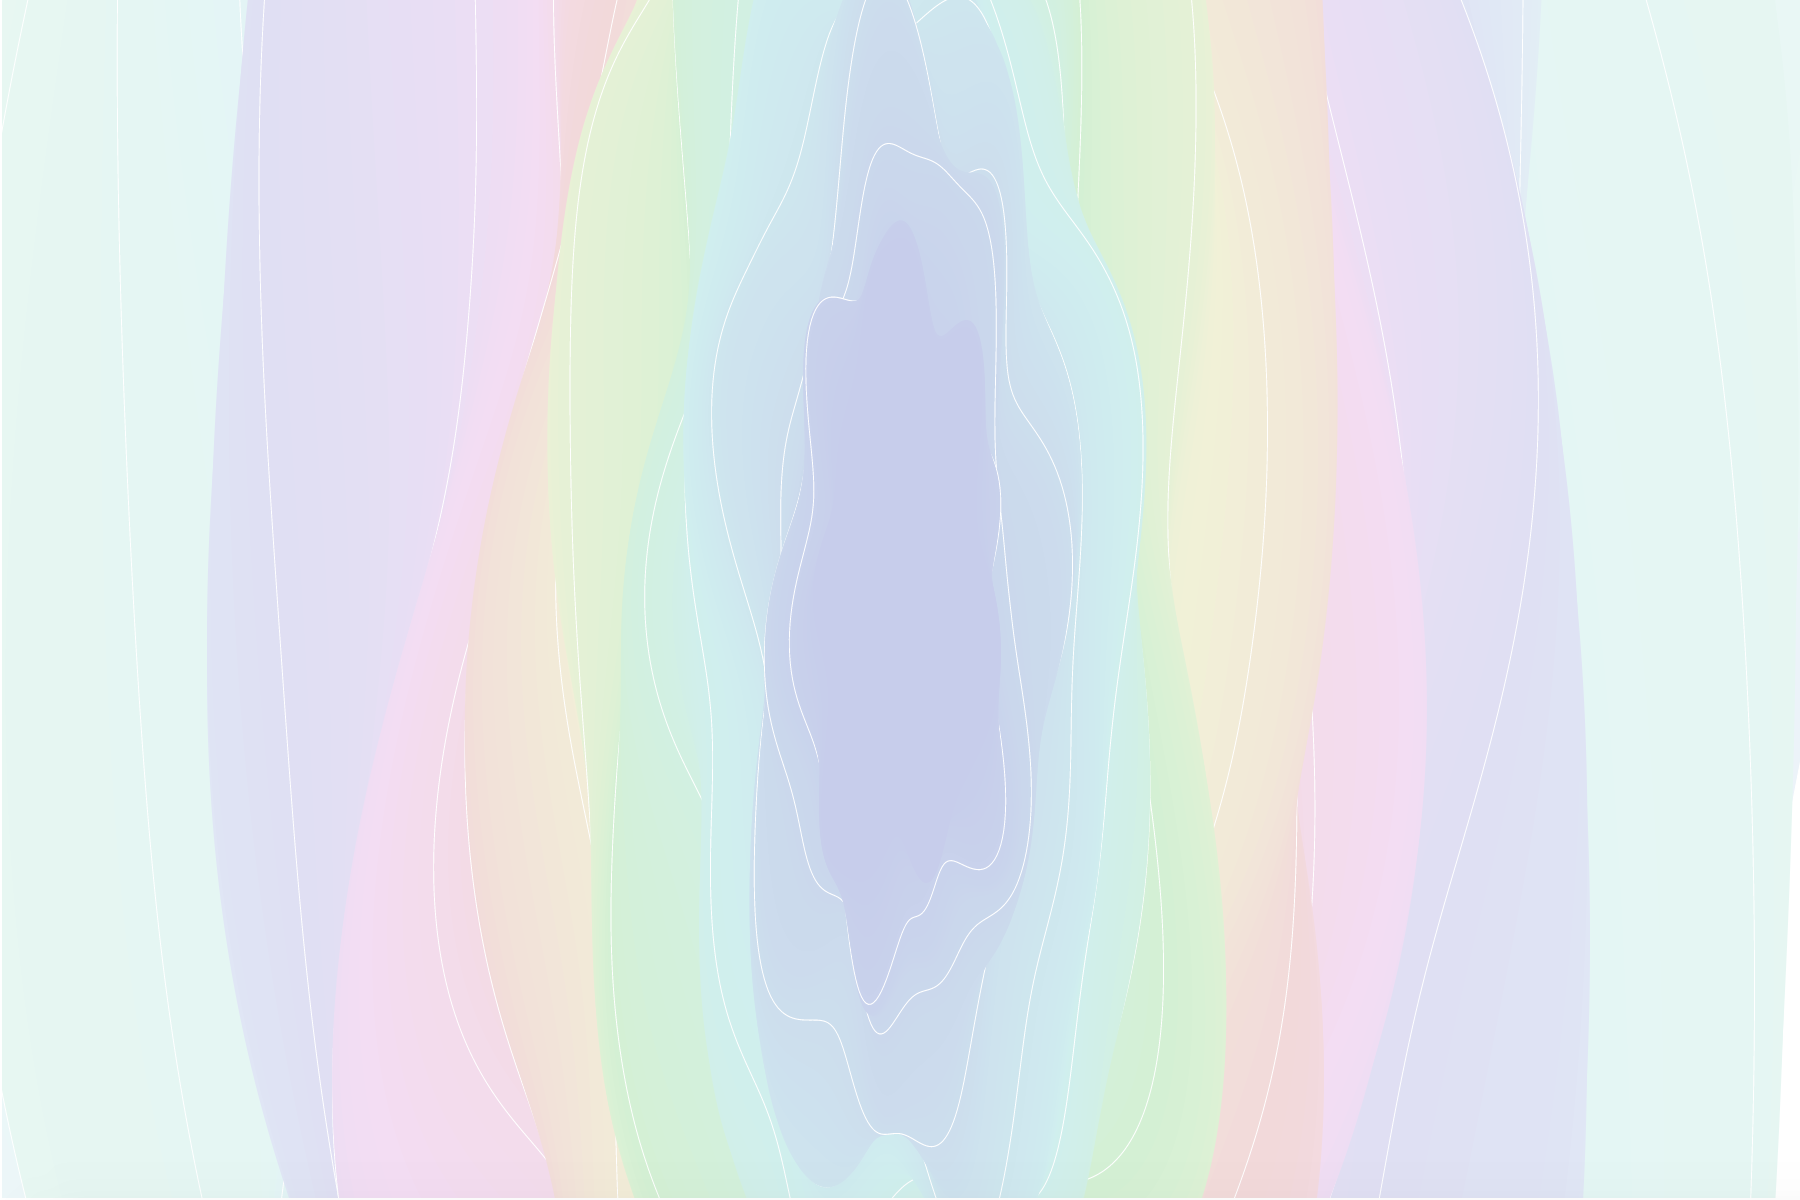
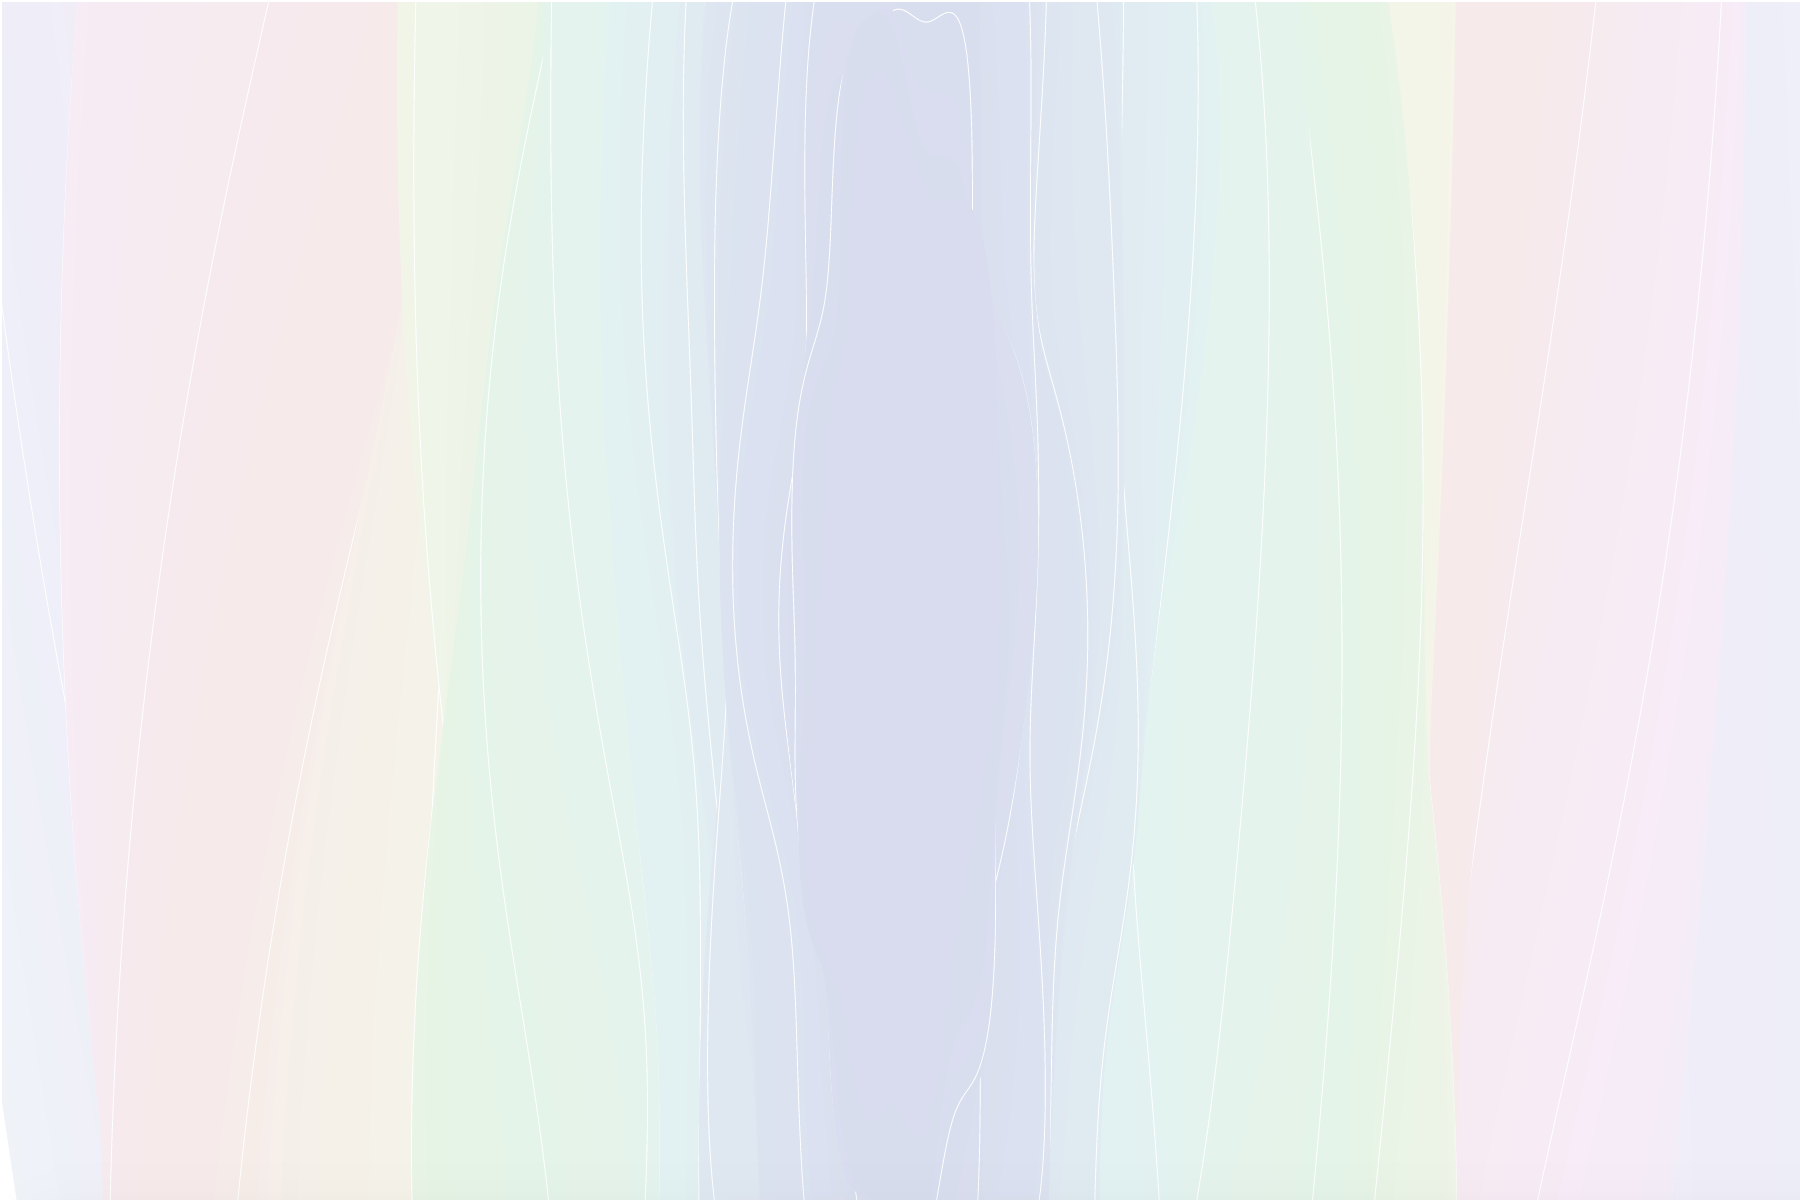
First

diff --git a/templates/csshole.html b/templates/csshole.html
@@ -21,7 +21,7 @@
   	transition: all 2s linear;
 }
 .content-11 .title {
-	background-image: url("../img/headerbg.png");
+	background-image: url("../img/cssholebgwide.png");
   	background-size: 100% 100%;
   	background-repeat: no-repeat;
 }
